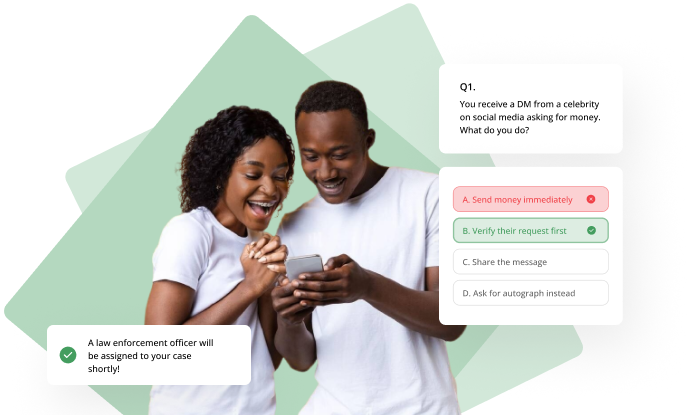
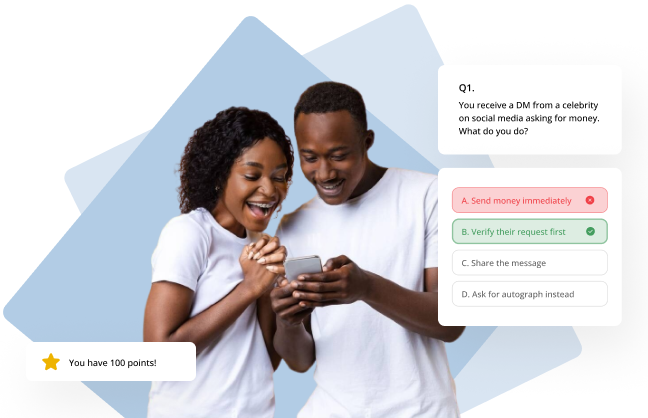
God abeg

diff --git a/src/index.css b/src/index.css
@@ -3,8 +3,8 @@ body {
     font-family: 'Open Sans', sans-serif;
 }
 
-.red {
-    color: #9E1218;
+.pink {
+    color: #6699CC;
 }
 
 .error {
@@ -19,7 +19,8 @@ body {
 
 .logo {
     font-weight: 600;
-    color: #616161;
+    color: #6699CC;
+    font-size: 24px;
 }
 
 .nav-links {
@@ -28,23 +29,23 @@ body {
 }
 
 .nav-links:hover {
-    color: #616161;
+    color: #6699CC;
 }
 
 .hero-section {
-    background: hsl(135, 40%, 99%);
+    background: hsl(210, 50%, 99%);
     height: 100vh;
 }
 
 .nav-bar{
     padding: 20px 25px;
-    background: hsl(135, 40%, 98%);
+    background: hsl(210, 50%, 99%);
     transition: .3s ease-in-out;
     /* box-shadow: 0px 3px 7px rgba(218, 218, 218, 0.6); */
 }
 
 .nav-btn {
-    background-color: #1F8A3F;
+    background-color: #6699CC;
     padding: 10px 30px;
     margin-left: 10px;
     border-radius: 6px;
@@ -54,7 +55,7 @@ body {
 
 .log-out-link {
     font-weight: 600;
-    color: #616161;
+    color: #6699CC;
     text-decoration: none;
 }
 
@@ -66,7 +67,7 @@ body {
     font-size: 2.5rem;
     font-weight: 700;
     /* width: 105%; */
-    color: #003865;
+    color: #132639;
     line-height: 1.4;
 }
 
@@ -75,7 +76,7 @@ body {
     font-size: 1rem;
     max-width: 510px;
     line-height: 1.6;
-    color: #194f7b;
+    color: #1f537a;
 }
 
 .hero-cta {
@@ -83,7 +84,7 @@ body {
 }
 
 .primary-btn {
-    background-color: #1F8A3F;
+    background-color: #6699CC;
     text-decoration: none;
     padding: 12px 40px;
     margin-right: 10px;
@@ -93,16 +94,16 @@ body {
 }
 
 .secondary-btn {
-    background-color: hsl(141, 33%, 88%);
+    background-color: hsl(210, 50%, 93%);
     text-decoration: none;
     padding: 12px 40px;
     border-radius: 6px;
     border: none;
-    color: #1A7335;
+    color: #6699CC;
 }
 
 .nav-btn:hover, .primary-btn:hover, .secondary-btn:hover {
-    background-color: #449D5F;
+    background-color: #6699CC;
     color: #fff;
 }
 
@@ -140,7 +141,8 @@ section {
 
 .input:focus, .pass-input:focus {
     box-shadow: none;
-    border: 3px solid hsl(139, 32%, 80%)
+    border: 3px solid hsl(210, 50%, 92%);
+    ;
 }
 
 .form-text {
@@ -148,7 +150,7 @@ section {
 }
 
 .auth-btn {
-    background-color: #1F8A3F;
+    background-color: #6699CC;
     text-decoration: none;
     padding: 12px 40px;
     margin: 5% 0;
@@ -159,22 +161,23 @@ section {
 }
 
 .auth-btn:hover {
-    background-color: #449D5F;
+    background-color: #6699CC;
 }
 
 .helper-text {
     text-align: center;
-    color: #2c683e;
+    color: hsl(210, 50%, 30%);
+    ;
 }
 
 .helper-link {
     text-decoration: none;
     font-size: 1.1rem;
-    color: #449D5F;
+    color: #6699CC;
 }
 
 .helper-link:hover {
-    color: #449D5F;
+    color: #6699CC;
 }
 
 /* Email verification */
@@ -220,13 +223,13 @@ section {
 
 
 .user-name {
-    color: hsl(0, 0%, 60%);
+    color: #999999;
     margin-bottom: 0;
 }
 
 .dash-header {
     font-weight: 600;
-    color: #0d2040;
+    color: #132639;
     margin-bottom: 1%;
 }
 

diff --git a/src/Components/AppNavBar.jsx b/src/Components/AppNavBar.jsx
@@ -13,10 +13,10 @@ function AppNavBar({ onClick }) {
             <Navbar.Toggle className='menu' aria-controls="basic-navbar-nav" />
             <Navbar.Collapse id="basic-navbar-nav">
             <Nav className="ms-auto links">
-            <Nav.Link href="/home" className='nav-links' active="true">Dashboard</Nav.Link>
+            <Nav.Link href="/home" className='nav-links'>Dashboard</Nav.Link>
             <Nav.Link href="#link" className='nav-links'>Learn</Nav.Link>
+            <Nav.Link href="#link" className='nav-links'>Rooms</Nav.Link>
             <Nav.Link href="/leaderboard" className='nav-links'>Leaderboard</Nav.Link>
-            {/* <Nav.Link href="#link" className='nav-links'>Others</Nav.Link> */}
             </Nav>
             <Nav className='ms-auto links'>
             <Nav.Link as={Link} to="/login" onClick={onClick} className='log-out-link'>Log out</Nav.Link>

diff --git a/src/Pages/Dashboard.jsx b/src/Pages/Dashboard.jsx
@@ -34,7 +34,8 @@ function Dashboard({token}) {
             </div>
             <div className='quizzes'>
               <div className='quiz-grid'>
-                <QuizCard title="Phishing Scam" description="Phishing is a lorem ipsum dolor sit amet." destination="/phishing"/>
+                <QuizCard title="Phishing Scam" description="Scammers pretend to be trusted organizations, send fake messages or create fake websites." destination="/phishing"/>
+                
                 <QuizCard title="Identity Theft" description="Phishing is a lorem ipsum dolor sit amet."/>
                 <QuizCard title="Credit Card Fraud" description="Phishing is a lorem ipsum dolor sit amet."/>
                 <QuizCard title="Donation Scam" description="Phishing is a lorem ipsum dolor sit amet."/>

diff --git a/src/Sections/HeroSection.jsx b/src/Sections/HeroSection.jsx
@@ -17,7 +17,7 @@ function HeroSection() {
       <Container fluid='md' className="hero-container">
             <Row>
                 <Col>
-                    <h1 className="hero-header">Equipping users to <span className="red">outsmart scammers</span></h1>
+                    <h1 className="hero-header"><span className="pink">Empower yourself</span> against financial fraud</h1>
                     <p className="hero-subheader">Crime Eye helps users to stay one step ahead of scammers by providing an easy-to-use platform for learning about their latest tricks.</p>
                     <div className="hero-cta">
                         <Link to="/register" className='navigation-link'>
